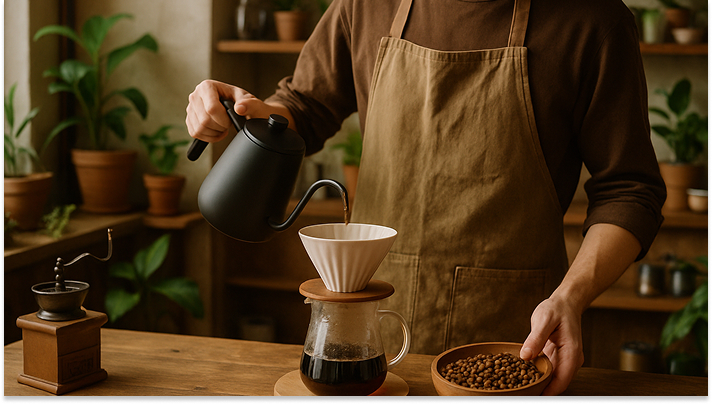
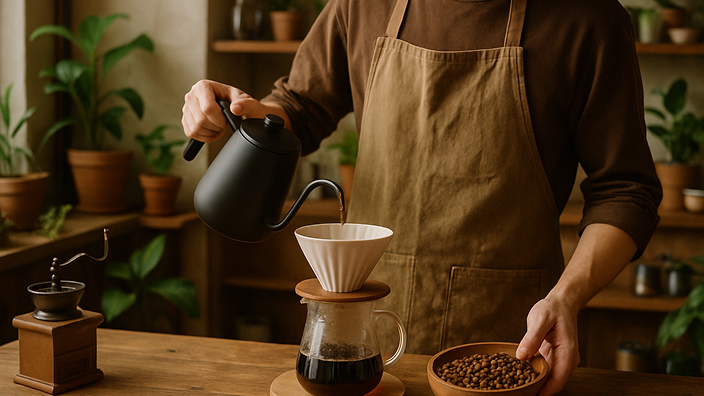
created media styles

diff --git a/src/css/welcome.css b/src/css/welcome.css
@@ -1,26 +1,25 @@
-/* #region welcome */
-.welcome {
-  background-color: #e0cbb4;
-}
-
 .welcome-container {
   display: flex;
+  align-items: center;
   flex-direction: column;
-  justify-content: center;
   padding-top: 64px;
   padding-bottom: 64px;
 }
 
 .welcome-info-container {
   display: flex;
-
-  justify-content: center;
+  flex-direction: column;
   gap: 32px;
-  margin-bottom: 80px;
+  margin-bottom: 32px;
 }
+
 .welcome-title-container {
-  width: 640px;
+  width: 288px;
+  display: flex;
+  flex-direction: column;
+  justify-content: center;
 }
+
 .welcome-title-container-sub-title {
   font-family: 'Quicksand', sans-serif;
   font-weight: 600;
@@ -32,14 +31,18 @@
 .welcome-title-container-title {
   font-family: 'Aboreto', sans-serif;
   font-weight: 400;
-  font-size: 48px;
+  font-size: 36px;
   line-height: 1.2;
   letter-spacing: -0.01em;
   color: #0b0803;
 }
 .welcome-link-container {
-  width: 640px;
+  width: 288px;
+  display: flex;
+  flex-direction: column;
+  justify-content: center;
 }
+
 .welcome-link-container-text {
   font-family: 'Quicksand', sans-serif;
   font-weight: 400;
@@ -56,7 +59,7 @@
   color: #fff;
   border-radius: 100px;
   padding: 10px 24px;
-  width: 181px;
+  width: 288px;
   height: 44px;
   border: none;
   box-shadow: 0 1px 2px 0 rgba(11, 8, 3, 0.05),
@@ -66,6 +69,7 @@
   background-color: #6f4e37;
   transition: background-color 250ms cubic-bezier(0.4, 0, 0.2, 1);
   display: flex;
+  justify-content: center;
   gap: 12px;
 }
 
@@ -74,13 +78,63 @@
   background-color: rgba(11, 8, 3, 0.1);
 }
 
-.welcome-img {
+.welcome-picture {
+  overflow: hidden;
   border-radius: 40px;
-  width: 1312px;
-  height: 738px;
+  width: 288px;
+  height: 162px;
 }
 
 .welcome-link-svg {
   fill: #fff;
 }
-/* #endregion welcome */
+@media screen and (min-width: 768px) {
+  .welcome-container {
+    display: flex;
+    flex-direction: column;
+    align-items: center;
+    justify-content: center;
+  }
+  .welcome-info-container {
+    flex-direction: row;
+    margin-bottom: 32px;
+  }
+  .welcome-title-container {
+    width: 336px;
+    justify-content: flex-start;
+  }
+
+  .welcome-link-container {
+    width: 336px;
+  }
+
+  .welcome-link-container-link {
+    width: 181px;
+  }
+
+  .welcome-picture {
+    width: 704px;
+    height: 396px;
+  }
+}
+
+@media screen and (min-width: 1440px) {
+  .welcome-info-container {
+    margin-bottom: 80px;
+  }
+  .welcome-title-container {
+    width: 640px;
+  }
+
+  .welcome-title-container-title {
+    font-size: 48px;
+  }
+  .welcome-link-container {
+    width: 640px;
+  }
+
+  .welcome-picture {
+    width: 1312px;
+    height: 738px;
+  }
+}

diff --git a/src/partials/welcome.html b/src/partials/welcome.html
@@ -14,7 +14,7 @@
           dedication. We are committed to sourcing high-quality beans and
           roasting them to perfection, ensuring each sip is a delight.
         </p>
-        <a class="welcome-link-container-link" href="/index.html">
+        <a class="welcome-link-container-link" href="#location">
           Find location
           <svg class="welcome-link-svg" width="24" height="24">
             <use href="/img/icons.svg#map-pin"></use>
@@ -22,35 +22,37 @@
         </a>
       </div>
     </div>
-    <picture>
-      <source
-        media="(min-width: 1158px)"
-        srcset="
-          /img/welcome/welcome-desk.jpg    1x,
-          /img/welcome/quality-desk@2x.jpg 2x
-        "
-      />
-      <source
-        media="(min-width: 768px)"
-        srcset="
-          /img/welcome/welcome-tab.jpg    1x,
-          /img/welcome/welcome-tab@2x.jpg 2x
-        "
-      />
-      <source
-        media="(max-width: 767px)"
-        srcset="
-          /img/welcome/welcome-mobile.jpg    1x,
-          /img/welcome/welcome-mobile@2x.jpg 2x
-        "
-      />
-      <img
-        class="welcome-img"
-        src="/img/welcome/welcome-desk.jpg"
-        alt="Our Journey: Passion for Quality Coffee"
-        width="1312"
-        height="738"
-      />
-    </picture>
+    <div class="welcome-picture">
+      <picture>
+        <source
+          media="(min-width: 1440px)"
+          srcset="
+            /img/welcome/welcome-desk.jpg    1x,
+            /img/welcome/welcome-desk@2x.jpg 2x
+          "
+        />
+        <source
+          media="(min-width: 768px)"
+          srcset="
+            /img/welcome/welcome-tab.jpg    1x,
+            /img/welcome/welcome-tab@2x.jpg 2x
+          "
+        />
+        <source
+          media="(max-width: 767px)"
+          srcset="
+            /img/welcome/welcome-mobile.jpg    1x,
+            /img/welcome/welcome-mobile@2x.jpg 2x
+          "
+        />
+        <img
+          class="welcome-img"
+          src="/img/welcome/welcome-desk.jpg"
+          alt="Our Journey: Passion for Quality Coffee"
+          width="1312"
+          height="738"
+        />
+      </picture>
+    </div>
   </div>
 </section>
